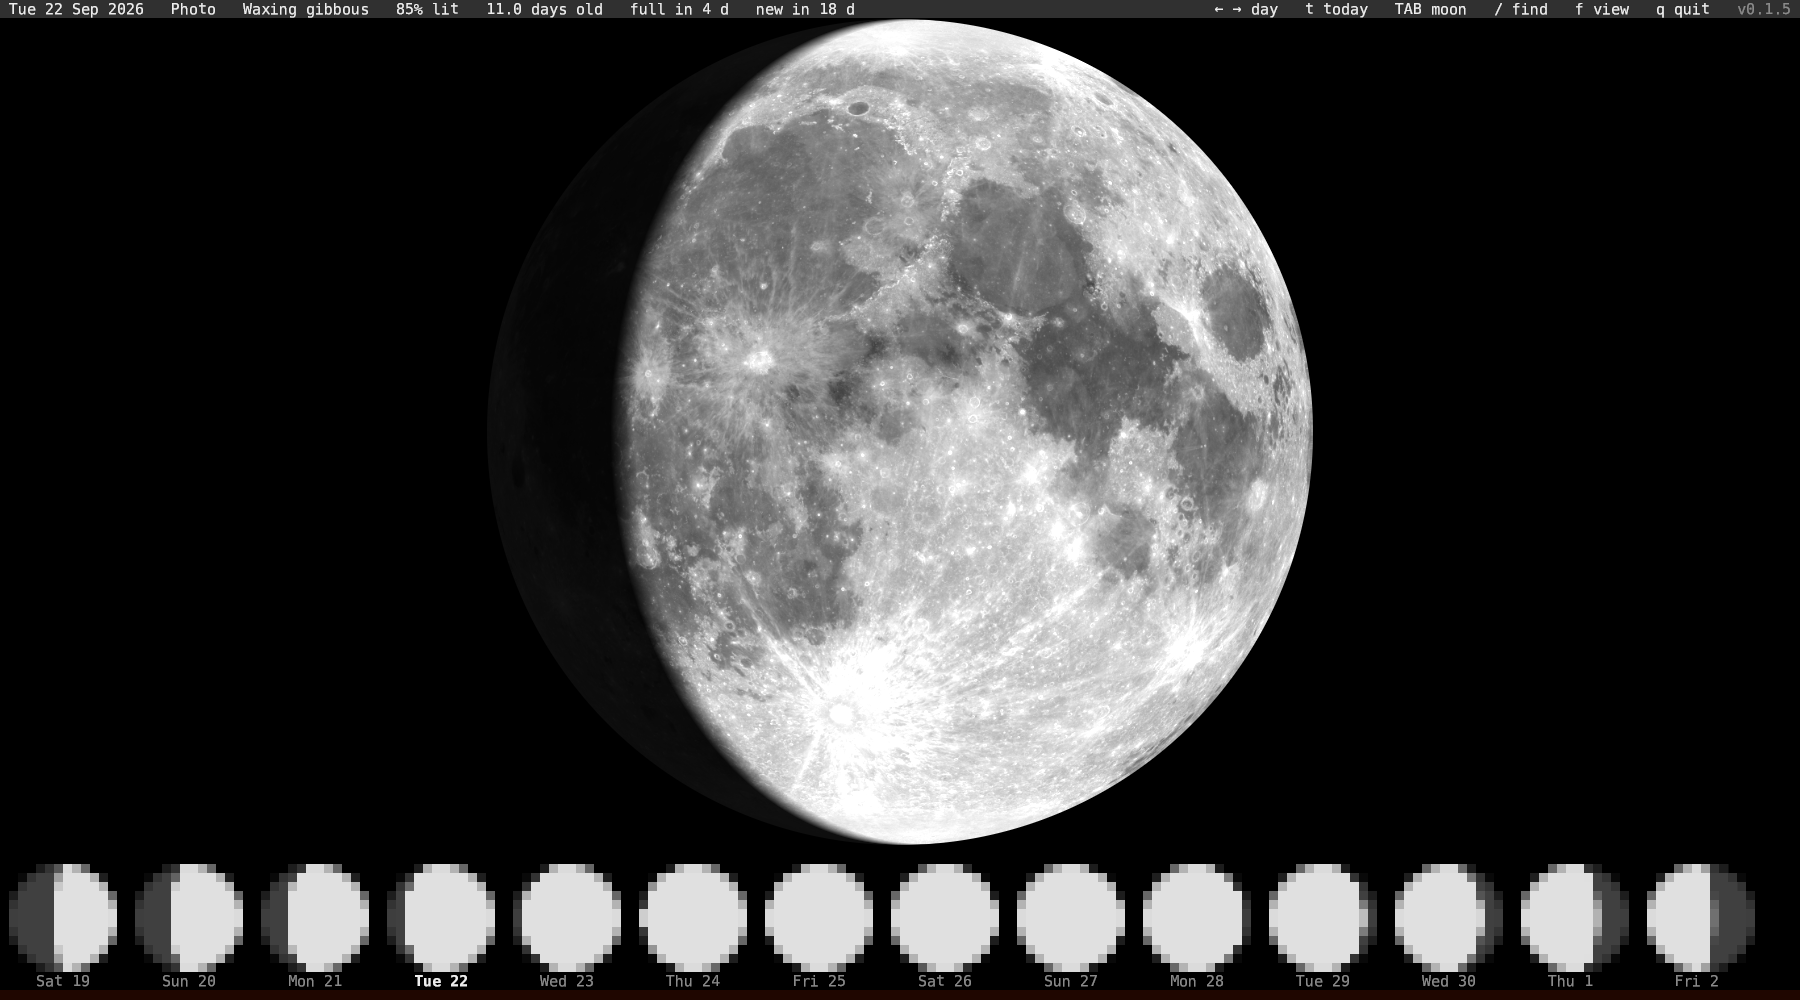
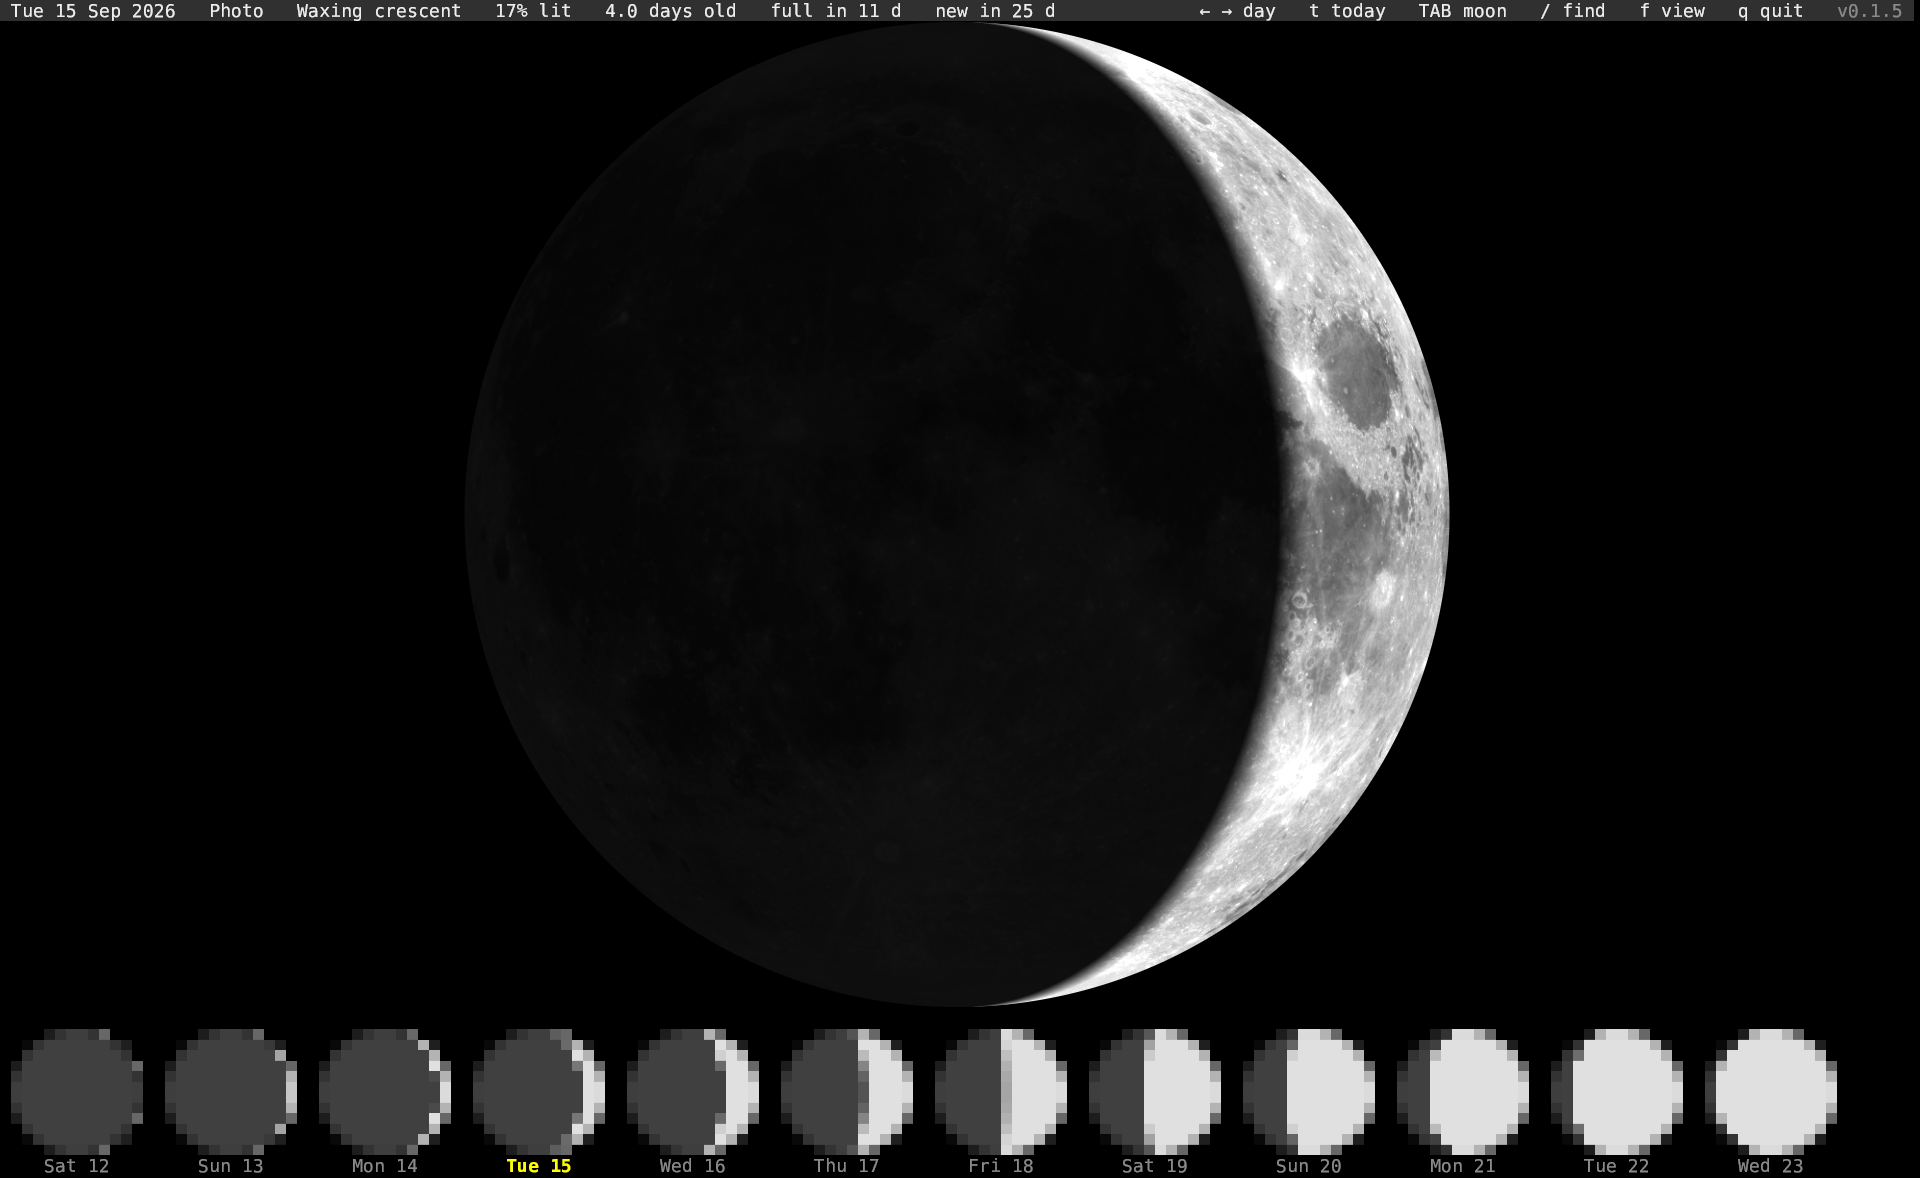
The photo screenshot, taken in glass

diff --git a/README.md b/README.md
@@ -64,7 +64,7 @@ lit for the day on screen and drawn as a true picture in the terminal.
 It needs a terminal that shows images, like glass or kitty; elsewhere
 the drawn Moon stays with a note.
 
-![The photo, a week on: a waxing gibbous Moon](img/screenshot-photo.png)
+![The photo in glass: tonight's crescent](img/screenshot-photo.png)
 
 ## Telescope view
 
